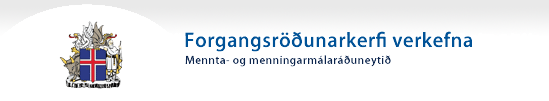
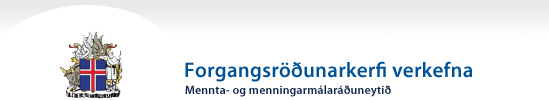
Small fixes for MMR - spacing issues and texts

diff --git a/public/stylesheets/newstuff.css b/public/stylesheets/newstuff.css
@@ -10,7 +10,7 @@ ul, ol
 #header {
     background-image: url("images/top-banner.png");
     background-repeat: no-repeat;
-    height: 90px;
+    height: 100px;
     width: 100%;
 }
 

diff --git a/public/stylesheets/gnew.css b/public/stylesheets/gnew.css
@@ -2,6 +2,13 @@
 	display:none;
 }
 
+#disclaimer
+{
+padding-top: 30px;	
+padding-left: 10px;
+padding-right: 10px;
+}
+
 #menu_home 
 {
 	list-style-type: none; 

diff --git a/public/stylesheets/nb.css b/public/stylesheets/nb.css
@@ -439,7 +439,6 @@ del {
 	font-size: 1.1em;
 	text-align: left;
 	padding: 5px 30px 10px 30px;
-	line-height: 1.4em;
 	clear: both;
 }
 #footer_container {
